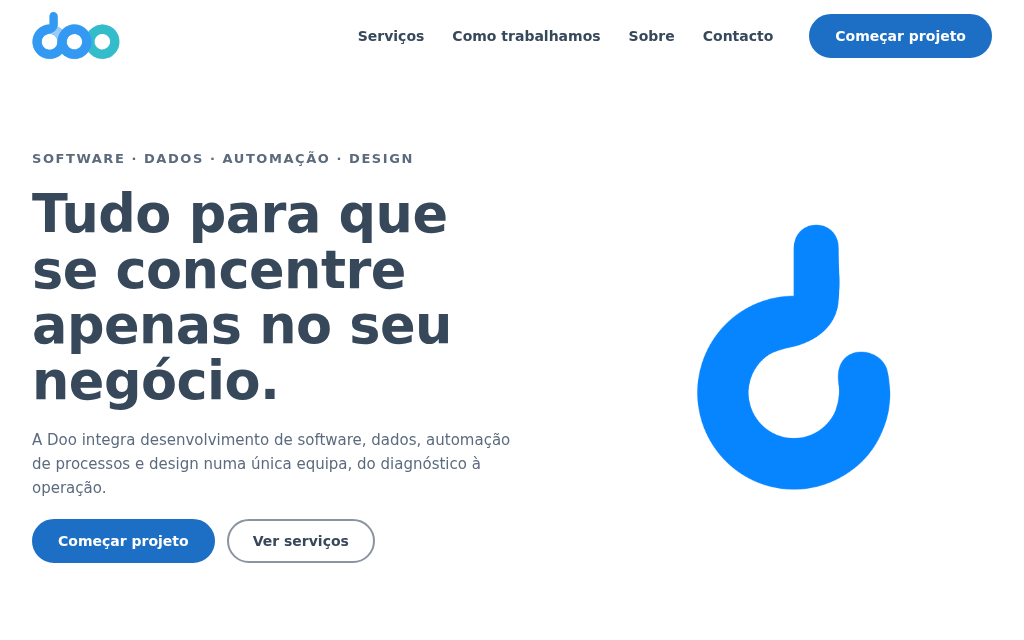
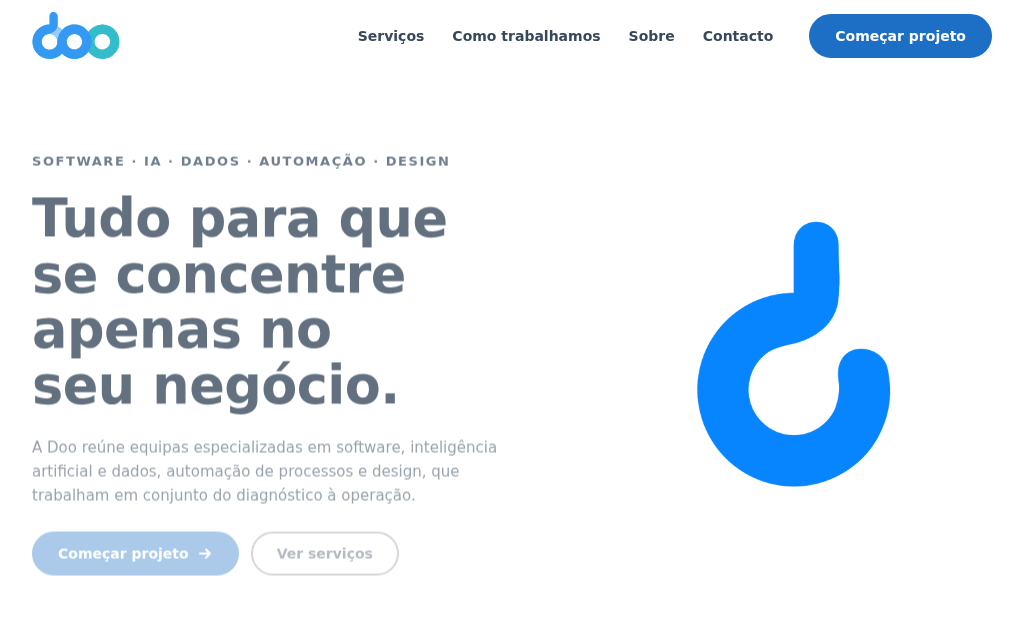
Ajustes para telemóvel, tablet e ecrãs grandes
- Topo: título ajustado a telemóveis, botões numa só linha e sem texto
  partido; em telemóvel deitado mantém texto e isotipo lado a lado num
  formato compacto; em ecrãs muito baixos em retrato esconde o isotipo.
- Serviços em duas colunas até 540px.
- Faixa de contacto mais compacta em telemóvel, botão à largura toda e
  anéis decorativos afastados do texto.
- Rodapé com os contactos numa linha própria em ecrãs estreitos.
- Títulos equilibrados, sem palavras soltas na última linha.
- Contentor mais largo a partir de 1600px e 2200px.
- Introdução de 'Porquê a Doo' deixa de ficar fixa em ecrãs baixos.

Verificado em 15 tamanhos, de 320x640 a 2560x1440, incluindo telemóveis
deitados: sem scroll lateral nem texto cortado, e o topo cabe no ecrã.

Claude-Session: https://claude.ai/code/session_01VCsnxdWecjaDKR21mmRSd4

diff --git a/assets/css/styles.css b/assets/css/styles.css
@@ -42,6 +42,9 @@
   --gutter: clamp(16px, 4vw, 32px);
 }
 
+@media (min-width: 1600px) { :root { --container: 1280px; } }
+@media (min-width: 2200px) { :root { --container: 1400px; } }
+
 /* ---------- Tema ---------- */
 :root {
   --surface: #FFFFFF;
@@ -113,6 +116,7 @@ a:hover { text-decoration-thickness: 2px; }
 h1, .h1 { font-size: 32px; line-height: 40px; font-weight: 700; margin: 0; }
 h2, .h2 { font-size: 24px; line-height: 32px; font-weight: 700; margin: 0; }
 h3, .h3 { font-size: 18px; line-height: 26px; font-weight: 600; margin: 0; }
+h1, h2, h3, .display-xl, .display-l { text-wrap: balance; }
 .eyebrow { font-size: 13px; line-height: 16px; font-weight: 700; letter-spacing: .12em; text-transform: uppercase; color: var(--ink-muted); margin: 0; }
 .body-l { font-size: 17px; line-height: 28px; }
 .small  { font-size: 13px; line-height: 20px; font-weight: 500; }
@@ -126,7 +130,7 @@ p { margin: 0; }
   min-height: 44px; padding: 0 var(--space-6);
   border-radius: var(--radius-pill); border: 2px solid var(--_bd);
   background: var(--_bg); color: var(--_fg);
-  font: 600 14px/20px var(--font-sans); text-decoration: none; cursor: pointer;
+  font: 600 14px/20px var(--font-sans); text-decoration: none; cursor: pointer; white-space: nowrap;
   position: relative; overflow: hidden; isolation: isolate;
   transition: transform .25s var(--ease-out), box-shadow .25s var(--ease-out),
               background-color .2s ease, border-color .2s ease, color .2s ease;
@@ -263,13 +267,36 @@ p { margin: 0; }
   border: solid var(--c); will-change: transform, opacity;
 }
 
-@media (max-width: 880px) {
-  .hero .container { grid-template-columns: 1fr; }
-  .hero .container { gap: clamp(8px, 2vh, 24px); }
+@media (max-width: 880px) and (orientation: portrait), (max-width: 639px) {
+  .hero .container { grid-template-columns: 1fr; gap: clamp(8px, 2vh, 24px); }
   .hero-art { order: -1; max-width: min(200px, 21svh); justify-self: start; }
-  .hero .hero-actions { flex-wrap: nowrap; }
-  .hero .hero-actions .btn { flex: 1 1 auto; padding-inline: var(--space-4); }
   .hero-art .isotipo { height: 88%; }
+}
+@media (max-width: 880px) and (orientation: landscape) and (min-width: 640px) {
+  .hero .container { gap: var(--space-8); }
+  .hero-art { max-width: min(320px, 70vh); }
+}
+@media (max-width: 480px) {
+  .hero .display-xl { font-size: clamp(28px, min(8vw, 5.2vh), 40px); }
+  .hero .hero-actions { flex-wrap: nowrap; }
+  .hero .hero-actions .btn { flex: 1 1 auto; padding-inline: var(--space-3); gap: 6px; }
+  .hero-art { max-width: min(200px, 18svh); }
+}
+@media (max-width: 340px) {
+  .hero .hero-actions { flex-direction: column; }
+  .hero .hero-actions .btn { width: 100%; }
+}
+/* Telemóveis muito baixos em retrato: o logótipo do cabeçalho basta */
+@media (orientation: portrait) and (max-height: 600px) { .hero-art { display: none; } }
+/* Telemóvel deitado: pouca altura, por isso texto mais largo e compacto */
+@media (orientation: landscape) and (max-height: 500px) {
+  .hero { padding-block: var(--space-4); }
+  .hero .container { grid-template-columns: 1.7fr .7fr; gap: var(--space-6); }
+  .hero .eyebrow { display: none; }
+  .hero .display-xl { font-size: clamp(24px, 7vh, 32px); }
+  .hero-copy { gap: var(--space-3); }
+  .hero-copy .body-l { font-size: 14px; line-height: 1.55; max-width: 560px; }
+  .hero-art { max-width: min(240px, 60vh); }
 }
 
 /* ---------- Frentes (serviços) ---------- */
@@ -302,11 +329,12 @@ p { margin: 0; }
 .front:hover::after { transform: scale(1.3); }
 .front > * { position: relative; z-index: 1; }
 @media (max-width: 1040px) { .fronts { grid-template-columns: repeat(2, 1fr); } }
-@media (max-width: 600px)  { .fronts { grid-template-columns: 1fr; } }
+@media (max-width: 540px)  { .fronts { grid-template-columns: 1fr; } }
 
 /* ---------- Manifesto / numa só casa ---------- */
 .why { display: grid; grid-template-columns: 5fr 7fr; gap: var(--space-12); align-items: start; }
 .why-intro { display: grid; gap: var(--space-6); position: sticky; top: calc(env(safe-area-inset-top, 0px) + 112px); }
+@media (max-height: 640px) { .why-intro { position: static; } }
 .why-intro .body-l { color: var(--ink-muted); }
 .why-cards { display: grid; grid-template-columns: 1fr 1fr; gap: var(--space-6); }
 .why-card {
@@ -399,6 +427,17 @@ p { margin: 0; }
 /* Branco sobre azul Doo só a 24px ou mais */
 .band .band-text { font-size: 24px; line-height: 32px; font-weight: 600; max-width: 560px; margin-top: var(--space-4); }
 .band .hero-actions { margin-top: var(--space-8); }
+@media (max-width: 560px) {
+  .band { padding: var(--space-8) var(--space-6); }
+  .band .hero-actions { margin-top: var(--space-6); }
+  .band .btn { width: 100%; }
+  .band .ring:first-of-type { --d: 150px !important; }
+}
+@media (max-width: 700px) { .band .ring:nth-of-type(3) { display: none; } }
+@media (max-width: 360px) {
+  .band { padding-inline: var(--space-5, 20px); }
+  .band .btn { font-size: 13px; padding-inline: 14px; gap: 6px; }
+}
 .band .ring { --c: rgba(255, 255, 255, .22); }
 .band > *:not(.ring) { position: relative; z-index: 1; }
 
@@ -418,6 +457,7 @@ p { margin: 0; }
   color: var(--ink-muted); font-size: 13px; line-height: 20px;
 }
 @media (max-width: 880px) { .footer-grid { grid-template-columns: 1fr 1fr; } .footer-brand { grid-column: 1 / -1; } }
+@media (max-width: 560px) { .footer-grid > div:last-child { grid-column: 1 / -1; } }
 
 /* ---------- Reveal on scroll ---------- */
 .reveal {
